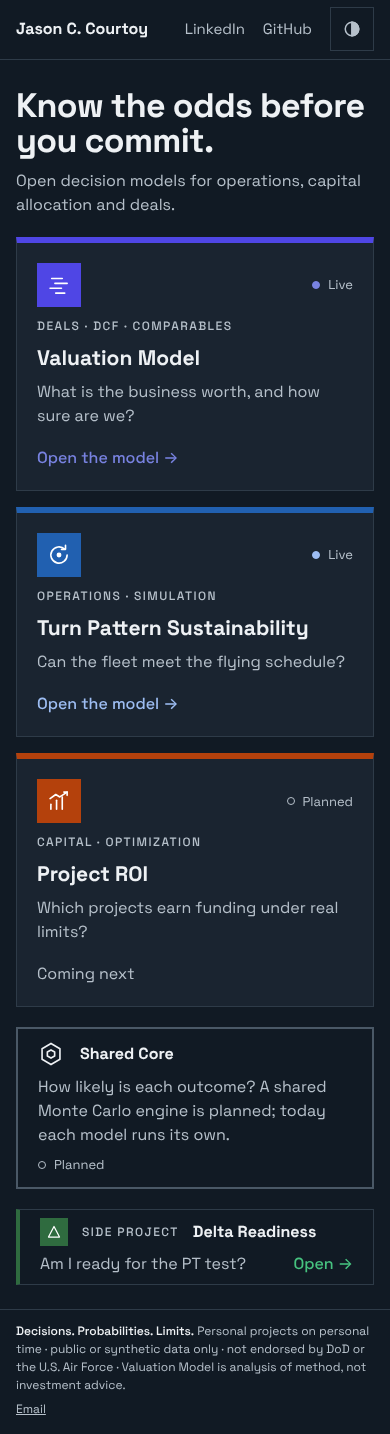
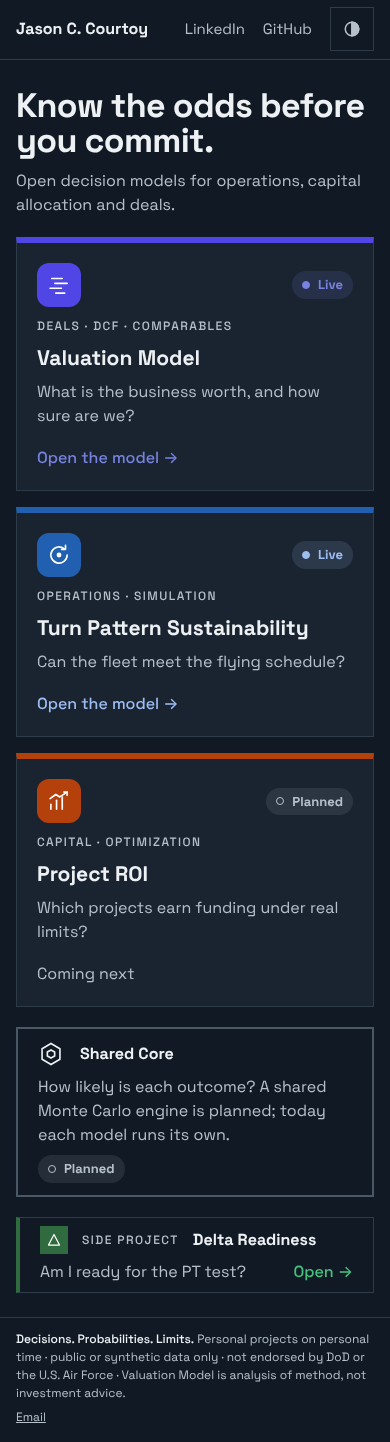
Brand kit: shared rounded shape tokens; homepage uses them
brand/css/brand.css gains a Shape section after the Delta Readiness frame:
22px cards with a soft shadow in light (none in dark), 12px icon tiles and
fields, fully round buttons, tabs and status pills (Live tinted in the app
accent). The same block goes into the Valuation and TPS copies so every
page shares one shape; colors and type are unchanged. The homepage panels
now use the tokens.

Claude-Session: https://claude.ai/code/session_01GhsxZacVL4PUv9jVS24NXX

diff --git a/index.html b/index.html
@@ -141,18 +141,19 @@
     .site-footer a { color: var(--ink-secondary); display: inline-block; padding: 12px 0; }
 
 
-    /* ---- Rounded shape (2026-11-19, Jason's ask): live models as soft panels; tiles, bars, toggle and focus rings rounded.
-       The app pages keep their square frame; this stays homepage-only. ---- */
+    /* ---- Rounded shape (2026-11-19, Jason's ask): the suite's shape tokens from brand.css (after Delta Readiness):
+       live models as soft panels; tiles, bars, toggle and focus rings rounded. ---- */
     .live { gap: 20px; }
-    .row { padding: 22px 24px 18px; border: 1px solid var(--line); border-radius: 18px; background: var(--panel); overflow: hidden; }
+    .row { padding: 22px 24px 18px; border: 1px solid var(--line); border-radius: var(--radius-card); background: var(--panel); box-shadow: var(--shadow-card); overflow: hidden; }
     .row::before { content: ""; position: absolute; left: 0; right: 0; top: 0; height: 4px; background: var(--brand-fill); }
     .row:hover { border-color: var(--ink-secondary); }
     .row:has(.row__link:focus-visible) { outline-offset: 3px; }
-    .row .brand-tile, .side__tile { border-radius: 9px; }
-    .theme-toggle { border-radius: 999px; }
+    .side__tile { border-radius: 8px; }
+    .row .brand-tile { border-radius: 10px; }
+    .theme-toggle { border-radius: var(--radius-control); }
     .ff__bar, .days__bar, .key--bar { border-radius: 999px; }
     .ff__mid, .days__mid { border-radius: 2px; }
-    .side { padding: 6px 14px 6px 8px; border: 1px solid var(--line); border-radius: 999px; }
+    .side { padding: 6px 14px 6px 8px; border: 1px solid var(--line); border-radius: var(--radius-control); background: var(--panel); box-shadow: var(--shadow-card); }
     .side:hover { border-color: var(--ink-secondary); }
     a:focus-visible, button:focus-visible { border-radius: 8px; }
     .side:focus-visible { border-radius: 999px; }

diff --git a/brand/css/brand.css b/brand/css/brand.css
@@ -247,3 +247,29 @@ code, pre, .num { font-family: var(--font-mono); }
 .status--warning::before { content: "!"; font-weight: 700; }
 .status--critical { color: var(--status-critical-text); }
 .status--critical::before { content: "\2715"; }
+
+/* ---- Shape (2026-11-19): rounded and soft, after the Delta Readiness frame. Colors and type stay as above. ----
+   Cards 22px with a soft shadow in light (none in dark), icon tiles 12px, buttons, tabs and pills fully round,
+   inputs 12px. Apps use these tokens in their own stylesheets so every page shares one shape. */
+:root {
+  --radius-card: 22px;
+  --radius-inner: 14px;
+  --radius-tile: 12px;
+  --radius-field: 12px;
+  --radius-control: 999px;
+  --shadow-card: 0 0 0 transparent;   /* not "none": apps combine it with inset caps */
+}
+@media (prefers-color-scheme: light) {
+  :root:not([data-theme="dark"]) { --shadow-card: 0 1px 2px rgba(17, 26, 36, 0.05), 0 6px 20px rgba(17, 26, 36, 0.06); }
+}
+:root[data-theme="light"] { --shadow-card: 0 1px 2px rgba(17, 26, 36, 0.05), 0 6px 20px rgba(17, 26, 36, 0.06); }
+
+.brand-tile { border-radius: var(--radius-tile); }
+.brand-header { box-shadow: var(--shadow-card); position: relative; }
+.brand-card { border-radius: var(--radius-card); box-shadow: var(--shadow-card); }
+.app-status {
+  padding: 4px 10px; border-radius: var(--radius-control); font-weight: 600;
+  background: color-mix(in srgb, var(--ink-secondary) 12%, transparent);
+}
+.app-status--live { color: var(--accent, var(--ink)); background: color-mix(in srgb, var(--accent, var(--ink)) 14%, transparent); }
+.status { border-radius: var(--radius-control); }

diff --git a/docs/design/2026-11-19-homepage/README.md b/docs/design/2026-11-19-homepage/README.md
@@ -29,7 +29,7 @@ How I looked: the repository at `main` (`086e103`, PR #19 merged and deployed by
 | Source Serif 4 headline vs all-sans | **All-sans, Space Grotesk.** | I rendered all three at 1280 and 390 px. The serif looks good but reads like a publication, and the apps never use it. Inter is generic. Space Grotesk's `y` and `g` already give the headline character. One line on desktop, two balanced lines on a phone ("Know the odds / before you commit."), at about 56 px and 34 px. No new font requests. |
 | "Know the odds before you commit." + one sentence in my voice | **Kept.** "I build open decision models for operations, capital allocation and deals." | It is the brand line in the first person, and it doesn't conflict with the military role. |
 | Core mark + name + quiet "Decision Models" label | **Kept.** | The label is hidden on phones so the top bar stays on one line at 390 px. |
-| Two wide panels, side by side | **Kept, as rounded panels** (changed 2026-11-19 at Jason's request). | The first version used open columns with a 3 px top rule. Jason asked for rounded shapes, so the live models are now soft panels (18 px radius, 4 px brand-color cap) with rounded tiles, bars, theme toggle and focus rings. Only two panels, each a different color and with its own chart, so they don't read as a stack of identical boxes. Homepage only: the app pages keep their square frame. |
+| Two wide panels, side by side | **Kept, as rounded panels** (changed 2026-11-19 at Jason's request). | The first version used open columns with a 3 px top rule. Jason asked for rounded shapes, so the live models are now soft panels (18 px radius, 4 px brand-color cap) with rounded tiles, bars, theme toggle and focus rings. Only two panels, each a different color and with its own chart, so they don't read as a stack of identical boxes. Jason then asked for the apps to match, after the Delta Readiness frame: `brand/css/brand.css` now carries shared shape tokens (22 px cards with a soft shadow in light and none in dark, 12 px tiles and fields, round buttons, tabs and pills), and the Valuation and TPS pages use them in their own preview PRs. Colors and Space Grotesk stay. |
 | "Live" / "Planned" badges | **Replaced by section labels.** | "Two models you can use today" and "Planned, not built yet" carry status as text. Planned items have no link, no color fill and a muted outline mark, so they can't be mistaken for tools. |
 | Questions | **Valuation reworded, TPS adapted.** | Valuation: "What is a public company worth across plausible assumptions?" It values US-listed companies from SEC filings, so "public company" sets the right expectation. TPS: "How often can the fleet fly the weekly schedule?" It reports the share of simulated weeks that meet every requirement. |
 | Chart previews | **Kept, but drawn from engine output.** | Valuation shows a football field of the weighted methods for the synthetic demo company, with the share price marked. TPS shows aircraft ready against aircraft needed, Monday to Friday, for the default synthetic preset. Both are labeled as examples, give units, and add a one-line takeaway from the model's own text. |
